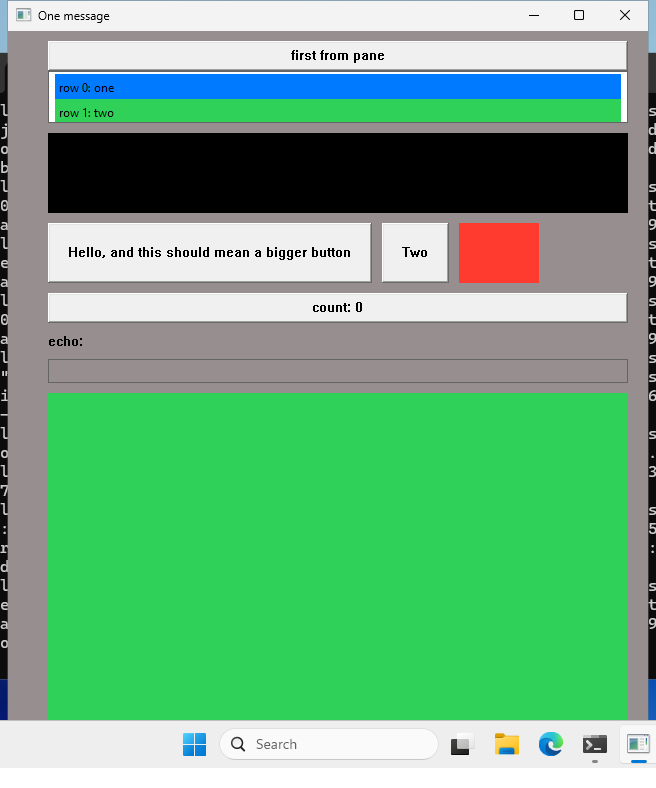
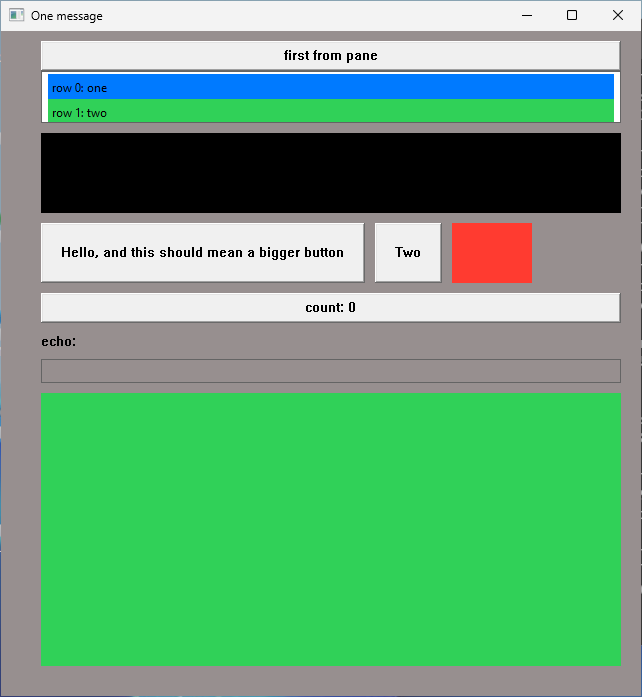
Better win32 screenshot (#33)
* fix: exact window trimming and work-area fit for screenshots

Builds on Dave's edge trimming: instead of fixed 10px (which varies with
DPI and can't clear the taskbar), capture the VISIBLE frame via
DwmGetWindowAttribute(DWMWA_EXTENDED_FRAME_BOUNDS) - exact at any DPI and
theme. The invisible resize borders GetWindowRect includes were showing up
as strips of desktop in the README screenshots.

Also fit the window inside the work area before capturing: on the CI
runner's 1024x768 display the 640x820 window overlapped the taskbar, so
the capture included it and cut the content off. And create the output
directory up front - Bitmap.Save throws a cryptic GDI+ error without it.

Keeps the Add-Type re-run guard.

* small update to window.rs

* docs: refresh simples size and screenshots

---------

diff --git a/src/macos/window.rs b/src/macos/window.rs
@@ -9,10 +9,7 @@ use cacao::{
     objc::{msg_send, sel, sel_impl},
 };
 
-use crate::{
-    app::AppState,
-    state::Handler,
-};
+use crate::{app::AppState, state::Handler};
 
 /// The window's delegate: its only job is syncing user resizes into state
 /// (window → state), so the next render requests exactly the size the user
